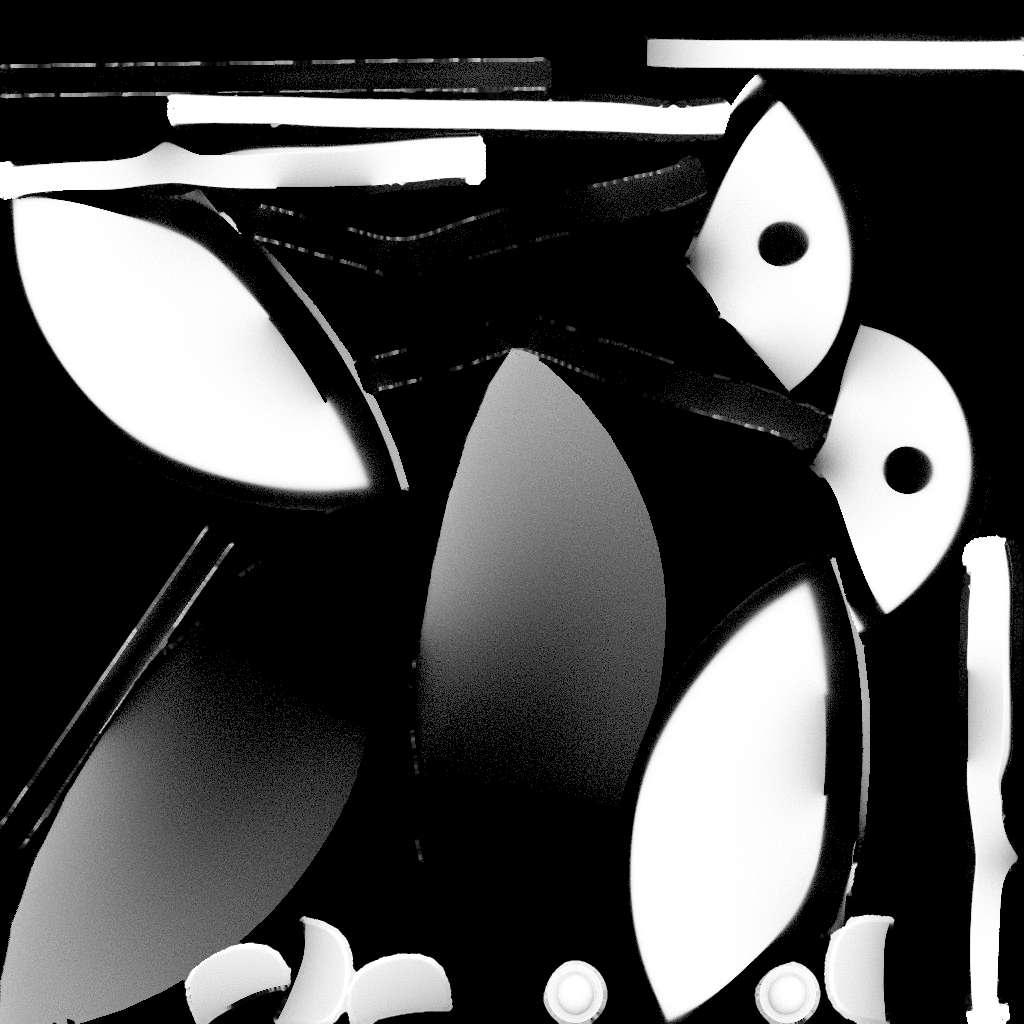
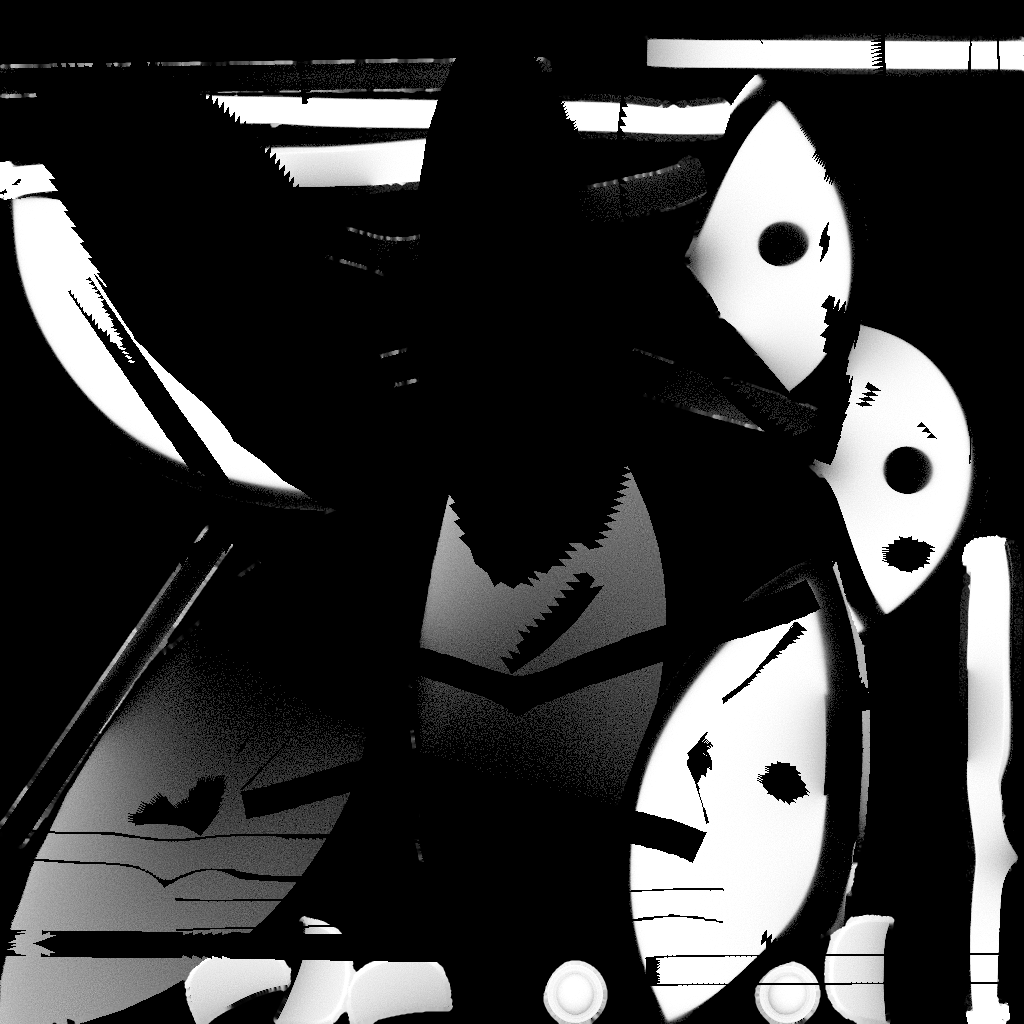
앵무조개잔 안쪽 오염 제거 + 완료 임계값 조정
- naut: Embree 광선캐스팅으로 내부(가려진 면) 텍셀 판별 → 안쪽 오염을 시드 단계에서 제거(닿기 어려운 안쪽 때문에 94%에서 막히던 문제 근본 해결, 청소 시 99%+ 도달 확인)
- 완료 임계값: 물어보기 90→92%, 자동완성 96% 유지

Claude-Session: https://claude.ai/code/session_01NrZpxSDQvoHfLzfXEDZ2k6

diff --git a/index.html b/index.html
@@ -1101,7 +1101,7 @@ function updateProgressUI(){
   $('#fill').style.width=pct+'%';
   if(!active.done && document.body.classList.contains('ingame')){
     if(pct>=96) completeArtifact();                             // 96%↑ → 자동 100% 완성
-    else if(pct>=90) showFinishAsk();                           // 90%↑ → 100% 채울지 물어보기(안쪽 등 못 닦는 부분 대비)
+    else if(pct>=92) showFinishAsk();                           // 92%↑ → 100% 채울지 물어보기
     else hideFinishAsk();
   }
   $('#replayBtn').classList.toggle('show', !!active.done);       // 완료 유물엔 '다시 복원' 노출